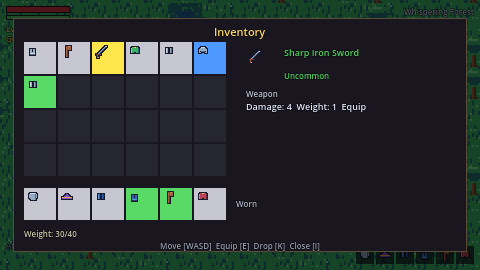
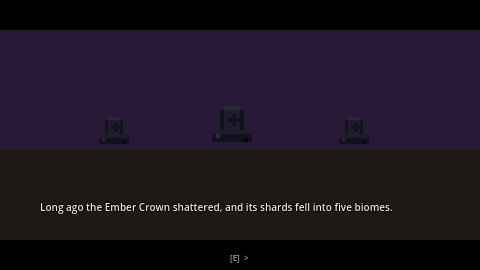
M3 evidence: 125 checks, story/village/dialogue/journal/night screenshots
- verify grows 98 -> 125: world scale + solid roofs + graveyard biome,
  settlement count, NPC roles + night/day schedule, 100/300 quest catalogue
  with resolved EN+FA texts and hard level gates, quest flow turn-in,
  potion stacking + drinking, talent rank-ups.
- Spawner keeps towns/villages safe (no ambushes between houses); NPCs get
  personal offsets so crowds do not stack on one pixel.
- Dialogue greeting no longer repeats the name label.
- biome.graveyard locale keys (EN/FA) added - the HUD label showed a raw key.
- New committed evidence: 10_story_intro, 11_village, 12_dialogue,
  13_journal, 14_night_graveyard; ROADMAP M3 marked done, README updated.

diff --git a/ROADMAP.md b/ROADMAP.md
@@ -70,12 +70,26 @@ Evidence: `tests/verify.tscn` (98 checks), `docs/screenshots/08_inventory.png`,
       («Sharp Cloth Tunic of the Bear» / «شمشیر آهنیِ تیزِ خرس»)
 - [x] 10% crits (double damage, gold number) for combat feel
 
-## M3 — NPCs, dialogue & quests
+## M3 — NPCs, dialogue & quests  ✅ DONE
 
-- [ ] Village/town placement with trader + quest-giver NPCs
-- [ ] Dialogue UI (RTL-aware)
-- [ ] Quest journal UI; kill/collect/talk quest types
-- [ ] Quest rewards wired to Stats
+Evidence: `tests/verify.tscn` (125 checks), `docs/screenshots/10_story_intro.png`,
+`11_village.png`, `12_dialogue.png`, `13_journal.png`, `14_night_graveyard.png`.
+
+- [x] 16x world (384x256): graveyard biome, 3 villages + 1 town with roofed
+      houses, plazas, wells, ring roads + cobble roads between settlements
+- [x] NPCs with roles (elder/merchant/guard/villager), paper-doll looks, and a
+      24h schedule: home at night, fields at work, well at noon, market evening
+- [x] Dialogue UI (RTL-aware): portrait from the real doll head, typewriter
+      text, quest offer (accept/decline) and turn-in choices
+- [x] Quest journal UI (U): main story track + active sides + lifetime counts
+- [x] Quest rewards wired to Stats; side rewards can include potions
+- [x] **100 main stages** (10 chapters, level gates 1→41) + **300 side quests**
+      (kill/collect/clear/deliver, 5 tiers), all deterministic and bilingual
+- [x] Story intro: 5 letterboxed pixel cutscene slides, skippable, saved flag
+- [x] Potions (health/greater/stamina, stacking, H hotkey) and the talent
+      screen (T: might/vigor/swift) pulled forward from M5 for balance
+- [x] Living world events: day/night tint + clock, blood moons, midnight
+      graveyard surges, wandering merchant; towns are safe ground
 
 ## M4 — Dungeons
 
@@ -85,6 +99,8 @@ Evidence: `tests/verify.tscn` (98 checks), `docs/screenshots/08_inventory.png`,
 
 ## M5 — Progression, talents & save
 
+- [x] Talent tracks (might/vigor/swift) + point economy from levels/chapters
+      (pulled into M3 for balance; deeper tree still open)
 - [ ] Talent tree UI + real point economy
 - [ ] Single save system (one code path), JSON-safe serialization
       (no raw Vector2/Color in JSON — the old save crashed on load)

diff --git a/README.md b/README.md
@@ -19,6 +19,9 @@ is backed by an automated check or a screenshot, never by a self-reported tick.
 | ![attack](docs/screenshots/03_attack.png) | ![persian](docs/screenshots/04_persian_rtl.png) |
 | ![combat](docs/screenshots/05_combat.png) | ![death](docs/screenshots/06_death_hardcore.png) |
 | ![inventory](docs/screenshots/08_inventory.png) | ![loot](docs/screenshots/09_loot.png) |
+| ![story](docs/screenshots/10_story_intro.png) | ![village](docs/screenshots/11_village.png) |
+| ![dialogue](docs/screenshots/12_dialogue.png) | ![journal](docs/screenshots/13_journal.png) |
+| ![night graveyard](docs/screenshots/14_night_graveyard.png) | |
 | Stamina-gated attack swing | Persian + RTL + Persian digits |
 
 ## What is actually here (M0 + part of M1)
@@ -35,7 +38,7 @@ is backed by an automated check or a screenshot, never by a self-reported tick.
   code reads. CI asserts the committed PNGs match the generator.
 - Bilingual UI with a bundled **Vazirmatn** font (SIL Open Font License,
   `assets/fonts/OFL-Vazirmatn.txt`) so Persian actually renders.
-- A headless test suite (`tests/verify.tscn`, 98 checks) that exits non-zero on
+- A headless test suite (`tests/verify.tscn`, 125 checks) that exits non-zero on
   failure, and a CI workflow that runs it. The previous CI hard-coded
   `failures='0'`; this one cannot lie.
 
